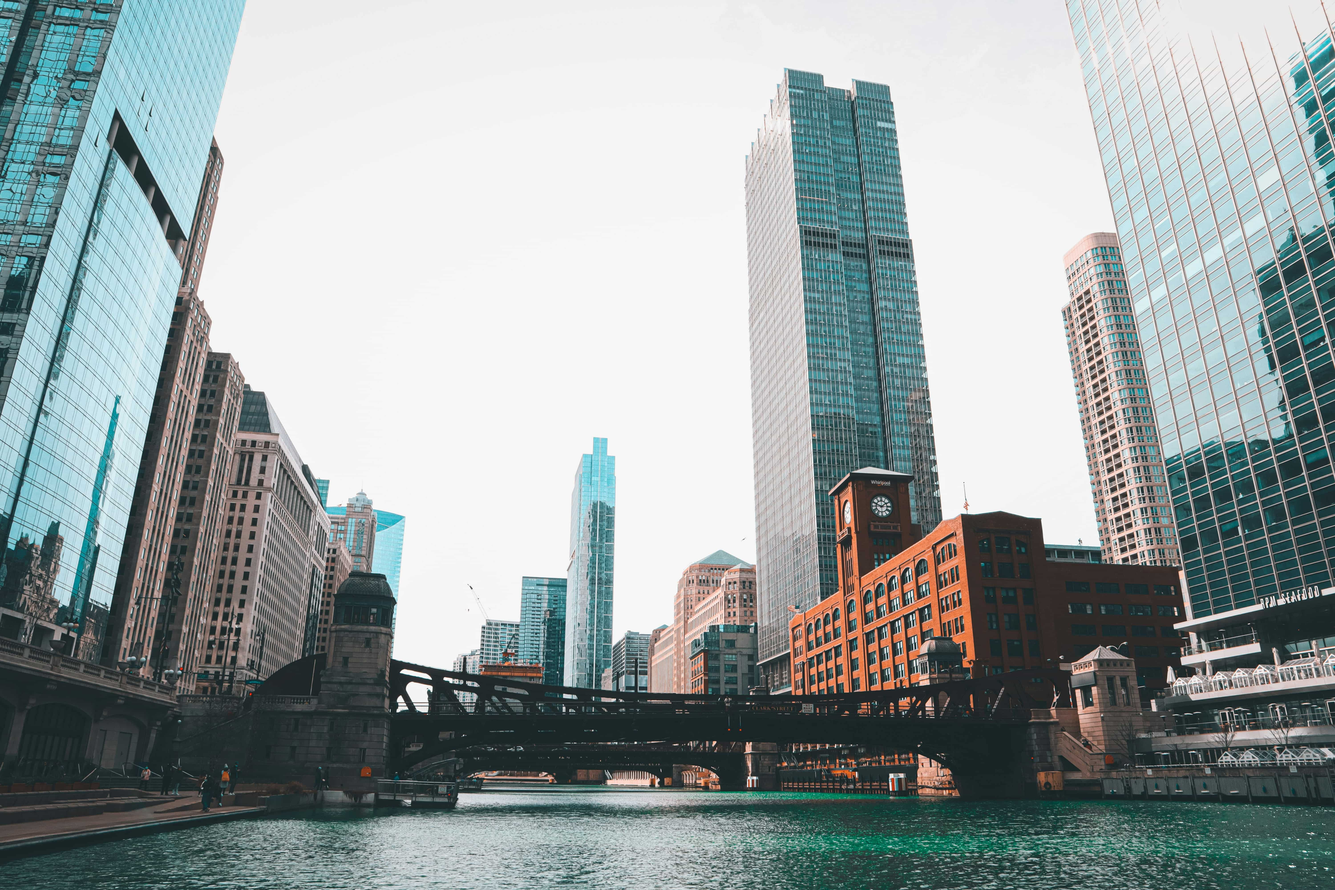
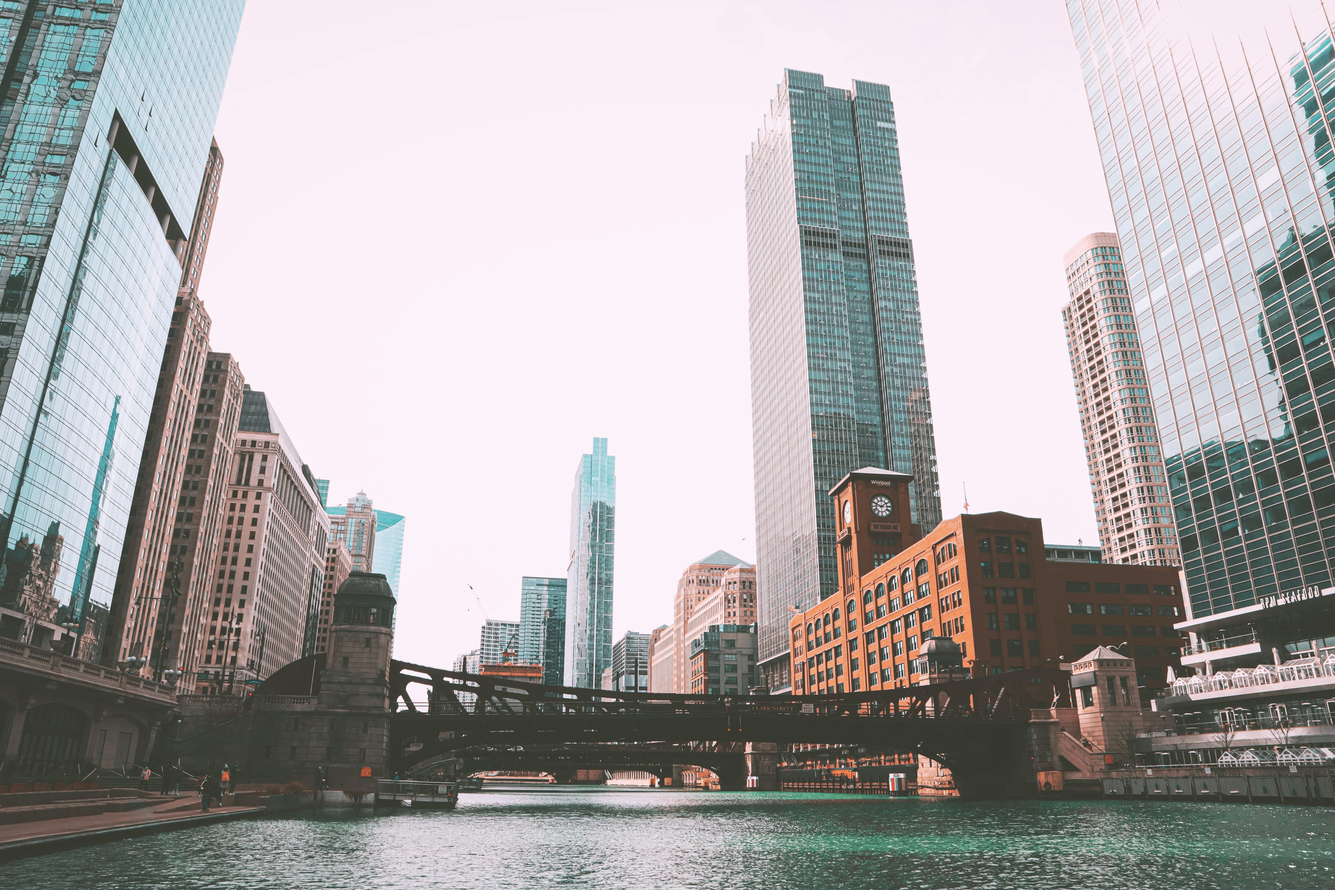
Fix up unused variables and add filtered images

diff --git a/src/pages/HomePage/HomePage.js b/src/pages/HomePage/HomePage.js
@@ -1,18 +1,14 @@
 
 import { useState, useEffect, useRef } from 'react';
 import {
-  BackgroundHeaderContainer, HeaderBackgroundRect, LargeHomeImage, BlueberryImageContainer, BlueberryImage, WelcomeMessageSection, WelcomeMessage,
-  TaglineContainer, TaglineText, TaglineSubtitle, TaglineSubtitleDate, TaglineSubtitleLocation, TaglineSubtitleContainer, TaglineButtonContainer,
-  TaglineDateLeft, TaglineDateCenter, TaglineDateRight,
+  BackgroundHeaderContainer, LargeHomeImage, BlueberryImageContainer, BlueberryImage, WelcomeMessageSection, WelcomeMessage,
+  TaglineContainer, TaglineText, TaglineSubtitle, TaglineSubtitleContainer, TaglineButtonContainer,
   SectionSpacer, RotatedSideTextLeft, RotatedSideTextRight, EmptyButton, RingDoodleIcon,
-  ContentSection, ContentSectionReversed, ContentTextContainer, ContentTitle, ContentBody, ContentImageContainer, ContentImage, ContentImageBackground, ContentImageBackgroundLeft,
-  ContentImageTravel, ContentImageSchedule, ContentImageThingsToDo, Ampersand,
-  SaveTheDateContainer, SaveTheDateHeader, SaveTheDateTitle, SaveTheDateSubtext, SaveTheDateDetails, DetailColumn, DetailLabel, DetailValue, DetailSubValue,
-  TopThingsList, TopThingsItem
+  Ampersand,
+  SaveTheDateContainer, SaveTheDateHeader, SaveTheDateTitle, SaveTheDateSubtext, SaveTheDateDetails, DetailColumn, DetailLabel, DetailValue, DetailSubValue
 } from './styled';
 import { Link } from "react-router-dom";
 import NavBar from '../../components/NavBar/NavBar'
-import FadeInWrapper from '../../components/FadeInWrapper/FadeInWrapper';
 import ringDoodle from '../../images/ring_doodle.png';
 
 function HomePage() {

diff --git a/src/pages/InvitationPage/InvitationPage.js b/src/pages/InvitationPage/InvitationPage.js
@@ -1,6 +1,6 @@
-import React, { useState, useEffect } from 'react';
+import { useState, useEffect } from 'react';
 import { PageContainer, InvitationGroup, EnvelopeBottom, EnvelopeTop, InvitationCard, CardInner, NavigationArrow, FadeOverlay } from './styled';
-import { Link, useNavigate } from 'react-router-dom';
+import { useNavigate } from 'react-router-dom';
 
 function InvitationPage() {
     const [openState, setOpenState] = useState('unopened'); // 'unopened', 'opening', 'opened'

diff --git a/src/pages/AboutUsPage/AboutUsPage.js b/src/pages/AboutUsPage/AboutUsPage.js
@@ -83,12 +83,13 @@ const TimelineItemComponent = ({ data, index }) => {
       }
     );
 
-    if (itemRef.current) {
-      observer.observe(itemRef.current);
+    const currentItem = itemRef.current;
+    if (currentItem) {
+      observer.observe(currentItem);
     }
 
     return () => {
-      if (itemRef.current) {
+      if (currentItem) {
         observer.disconnect();
       }
     };

diff --git a/src/pages/RSVPPage/RSVPPage.js b/src/pages/RSVPPage/RSVPPage.js
@@ -1,7 +1,7 @@
 import React, { useState } from 'react';
 import NavBar from '../../components/NavBar/NavBar';
 import {
-  RSVPContainer, StepContainer, QuestionTitle, FormTitle,
+  RSVPContainer, StepContainer, QuestionTitle,
   StyledInput, FormContainer, FormGroup, FormLabel,
   StyledSelect, SubmitButton, StyledTextArea, HelperText,
   ThankYouMessage, BackHomeButton, PasswordInputWrapper

diff --git a/src/pages/RSVPPage/styled.js b/src/pages/RSVPPage/styled.js
@@ -1,5 +1,5 @@
 import styled from "styled-components";
-import { accentColor, accentColorBlue, accentColorLighter, mobileBreakpoint } from "../../constants";
+import { accentColor, accentColorBlue, mobileBreakpoint } from "../../constants";
 
 export const RSVPContainer = styled.div`
     max-width: 1200px;

diff --git a/src/index.js b/src/index.js
@@ -4,7 +4,7 @@ import 'bootstrap/dist/css/bootstrap.min.css';
 import './index.css';
 import reportWebVitals from './reportWebVitals';
 import {
-  Routes, Route, HashRouter,
+  Routes, Route,
   BrowserRouter
 } from 'react-router-dom';
 import HomePage from './pages/HomePage/HomePage';

diff --git a/src/pages/HotelsPage/HotelsPage.js b/src/pages/HotelsPage/HotelsPage.js
@@ -1,6 +1,5 @@
 import { useState, useEffect } from 'react';
 import NavBar from '../../components/NavBar/NavBar';
-import hotelDoodle from '../../images/hotel_doodle.png';
 import hotelImage from '../../images/hotel.jpg';
 import {
     PageContainer,
